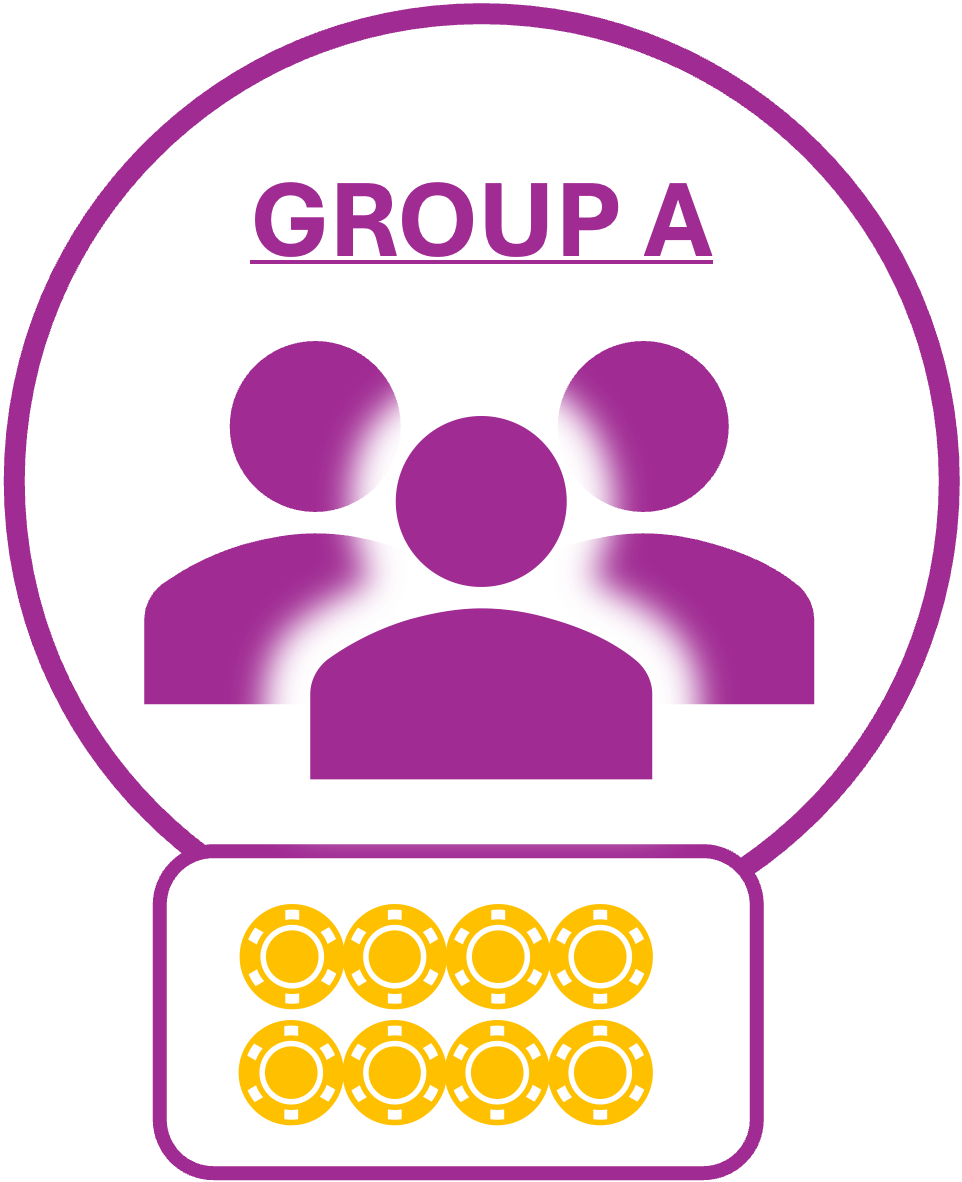
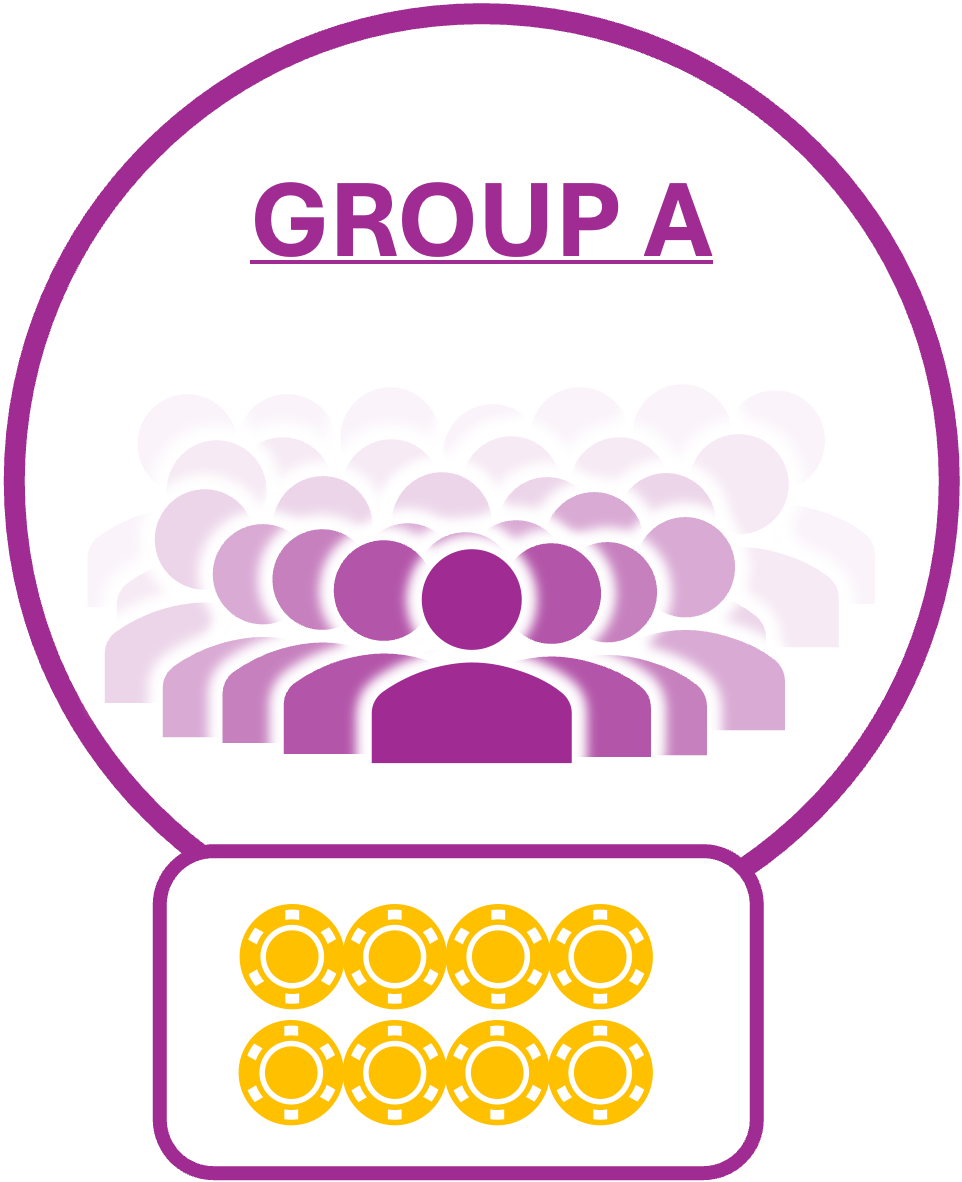
image_updates

Changed region(s): [[0.0936, 0.2741, 0.8732, 0.6701]]

diff --git a/s2_intro/Info.html b/s2_intro/Info.html
@@ -120,8 +120,8 @@
         </p>
         <p>
             This means that your match was assigned an initial bonus of &#8473;<b>{{ m_endowment }}</b> as their score was
-            {% if player.group_assignment == 1 %} at least as high as {% endif %}
-            {% if player.group_assignment == 2 %} less than {% endif %}
+            {% if player.match == 1 %} at least as high as {% endif %}
+            {% if player.match == 2 %} less than {% endif %}
             the average from the previous study.
         </p>
     </div>
